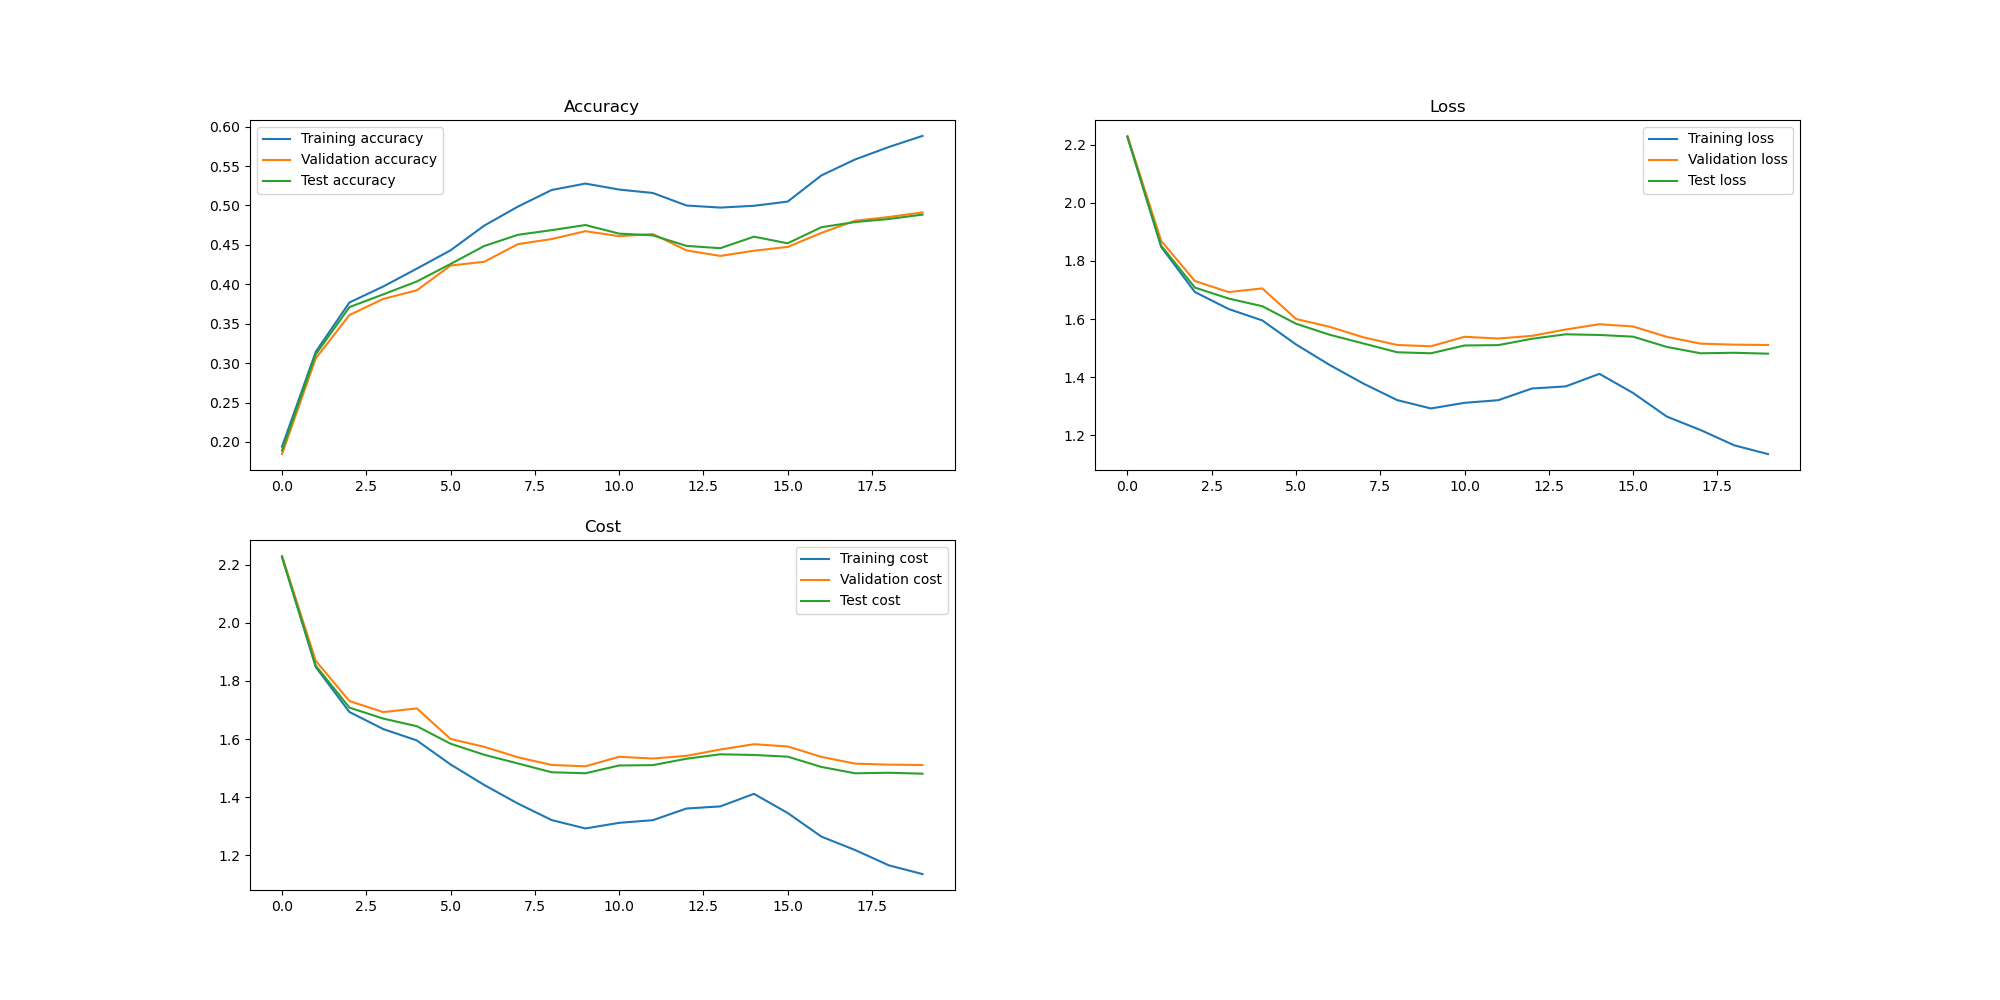
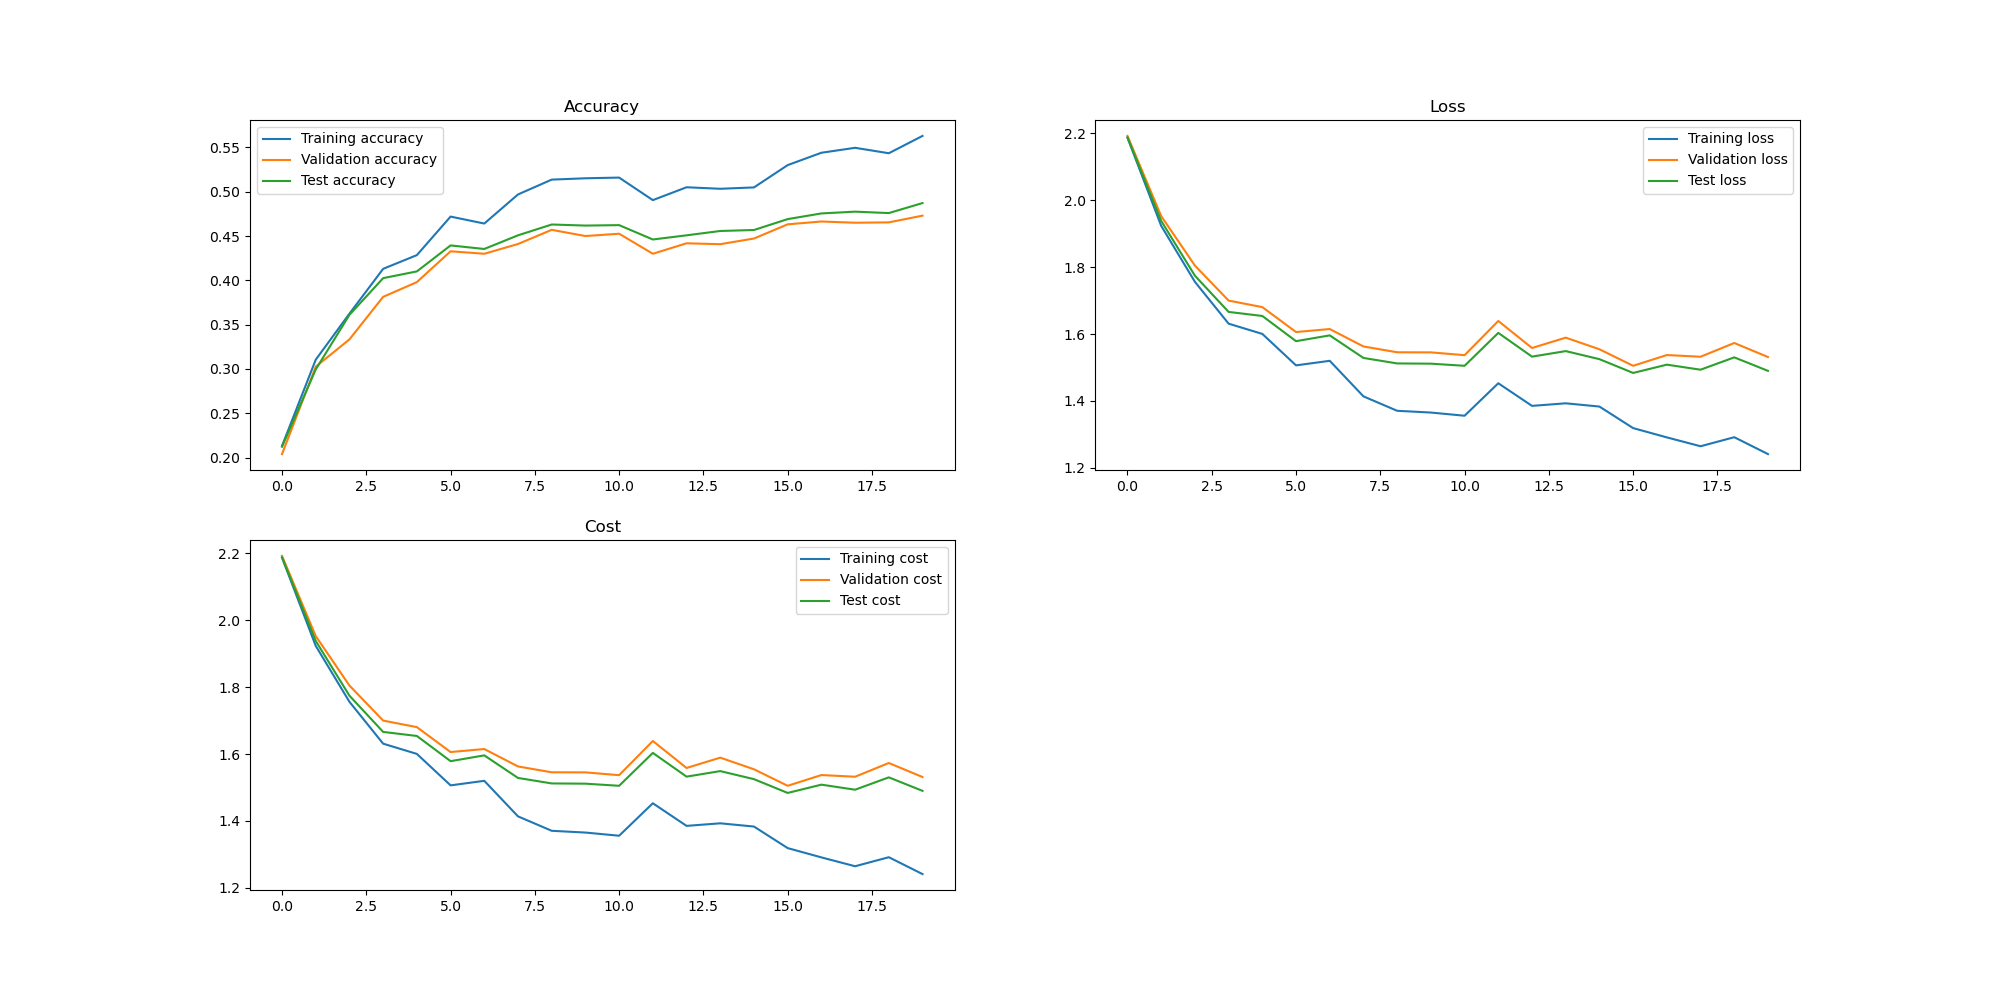
Compiling results

diff --git a/Labs/Lab 3/lab3.py b/Labs/Lab 3/lab3.py
@@ -320,7 +320,7 @@ def update_weights_bias(weights, bias, gamma, beta, grad_weights, grad_bias, lea
     return weights, bias, gamma, beta
   return weights, bias, None, None
 
-def sgd_minibatch(data_train, data_val, data_test, weights, bias, labels_train, labels_val, labels_test, learning_rate, reguliser, batch_size, cycles, do_plot = False, do_batchNorm = False, name_of_file="", gamma=None, beta=None):
+def sgd_minibatch(data_train, data_val, data_test, weights, bias, labels_train, labels_val, labels_test, learning_rate, reguliser, batch_size, cycles, do_plot = False, do_batchNorm = False, name_of_file="", gamma=None, beta=None, alpha=0.9):
   eta_min = 1e-5
   eta_max = 1e-1
   step_size = (data_train.shape[1] / batch_size)*5
@@ -343,6 +343,7 @@ def sgd_minibatch(data_train, data_val, data_test, weights, bias, labels_train, 
   validation_cost = list()
   test_cost = list()
   step_list = list()
+
   print("Epochs: ", epochs)
   print("Updates per epoch: ", updates_per_epoch)
   for epoch in tqdm(range(epochs)):
@@ -365,11 +366,21 @@ def sgd_minibatch(data_train, data_val, data_test, weights, bias, labels_train, 
       # Update the learning rate
       current_iteration = epoch * updates_per_epoch + batch
       learning_rate = cyclical_update(current_iteration, step_size, eta_min, eta_max)
+
+    # Get weighted averages
+    if do_batchNorm:
+      if batch == 0:  # First minibatch
+        mean_average = mean_list
+        variance_average = variance_list
+      else:
+        mean_average, variance_average = calculate_weighted_average(mean_list,variance_list,alpha)
+      mean_list = mean_average
+      variance_list = variance_average
     
     if do_plot:
-      probs_train = forward_pass(data_train, weights, bias, do_batchNorm=do_batchNorm, gamma=gamma, beta=beta)[0][-1]
-      probs_validation = forward_pass(data_val,weights, bias, do_batchNorm=do_batchNorm, gamma=gamma, beta=beta)[0][-1]
-      probs_test = forward_pass(data_test,weights, bias, do_batchNorm=do_batchNorm, gamma=gamma, beta=beta)[0][-1]
+      probs_train = forward_pass(data_train, weights, bias, do_batchNorm=do_batchNorm, gamma=gamma, beta=beta, mean=mean_list, var=variance_list)[0][-1]
+      probs_validation = forward_pass(data_val,weights, bias, do_batchNorm=do_batchNorm, gamma=gamma, beta=beta,mean=mean_list, var=variance_list)[0][-1]
+      probs_test = forward_pass(data_test,weights, bias, do_batchNorm=do_batchNorm, gamma=gamma, beta=beta, mean=mean_list, var=variance_list)[0][-1]
 
       train_loss.append(get_loss(data_train, labels_train,probs_train))
       vaidation_loss.append(get_loss(data_val, labels_val,probs_validation))
@@ -393,6 +404,17 @@ def sgd_minibatch(data_train, data_val, data_test, weights, bias, labels_train, 
     do_plotting(train_loss, vaidation_loss, test_loss, train_accuracy, validation_accuracy, test_accuracy, train_cost, validation_cost, test_cost, step_list, name_of_file=name_of_file)
 
   return weights, bias
+
+def calculate_weighted_average(mean_list, var_list, alpha):
+  mean_av = mean_list.copy()  # Start with values from mean_list
+  var_av = var_list.copy()    # Start with values from var_list
+
+  for i in range(len(mean_list)):
+    new_mean = alpha * mean_av[i] + (1 - alpha) * mean_list[i]
+    new_var = alpha * var_av[i] + (1 - alpha) * var_list[i]
+    mean_av[i] = new_mean  # Update mean_av in place
+    var_av[i] = new_var    # Update var_av in place
+  return mean_av, var_av
 
 def do_plotting(train_loss, vaidation_loss, test_loss, train_accuracy, validation_accuracy, test_accuracy, train_cost, validation_cost, test_cost, step_list,name_of_file=""):
   # Plotting
@@ -423,7 +445,6 @@ def compute_gradients_slow(data, labels, weights, bias, gamma, beta, reguliser, 
   grad_bias = []
   grad_gamma = []
   grad_beta = []
-  
   for j in range(len(bias)):
       grad_bias_layer = np.zeros(bias[j].shape)
       for i in tqdm(range(grad_bias_layer.shape[0])):
@@ -510,6 +531,28 @@ def compareGradients(data, labels, weights, bias, gamma, beta, reguliser, do_bat
     print("No batch normalisation")
   print("Done!")
 
+def lamba_search(data_train, data_val, data_test, weights, bias, labels_train, labels_val, labels_test, do_batchNorm):
+  config = {
+      'data_train': data_train,
+      'data_val': data_val,
+      'data_test': data_test,
+      'weights': weights,
+      'bias': bias,
+      'labels_train': labels_train,
+      'labels_val': labels_val,
+      'labels_test': labels_test,
+      'learning_rate': 0.0001,
+      'reguliser': 0.005,
+      'batch_size': 100,
+      'cycles': 2,
+      'do_plot': True,
+      'do_batchNorm': do_batchNorm,
+      'name_of_file': "Lab[50,50,10], he=True, Sigma=None, do_batchNorm=False",
+      'gamma': None,
+      'beta': None,
+      'alpha': 0.9
+  }
+  
 
 
 def main():
@@ -527,8 +570,18 @@ def main():
   else:
     do_batchNorm = False
   
+  Sigma = None
+  print("Do you want to have sigma? (y/n)")
+  answer = input()
+  if answer == "y":
+    print("What sigma do you want?")
+    Sigma = float(input())
+  else:
+    Sigma = None
+
+  
   # Initialising the network
-  weights, bias, gamma, beta = init_network(data_train, [50, 30, 20,20, 10, 10, 10, 10], he =False, Sigma =None, do_batchNorm=do_batchNorm)
+  weights, bias, gamma, beta = init_network(data_train, [50, 30, 20, 20, 10, 10, 10, 10], he =True, Sigma =Sigma, do_batchNorm=do_batchNorm)
 
 
   # Comparing gradients
@@ -536,6 +589,12 @@ def main():
   answer = input()
   if answer == "y":
     compareGradients(data_train[:, 0:100], labels_train[:, 0:100], weights, bias, gamma, beta, 0, do_batchNorm, h=1e-5)
+  
+  print("Do you want to do a lamba search? (y/n)")
+  answer = input()
+  if answer == "y":
+    lamba_search(data_train, data_val, data_test, weights, bias, labels_train, labels_val, labels_test, do_batchNorm)
+  
 
   print("Do you want to train the network? (y/n)")
   answer = input()
@@ -551,16 +610,18 @@ def main():
       'labels_train': labels_train,
       'labels_val': labels_val,
       'labels_test': labels_test,
-      'learning_rate': 0.01,
-      'reguliser': 0.0,
+      'learning_rate': 0.0001,
+      'reguliser': 0.005,
       'batch_size': 100,
       'cycles': 2,
       'do_plot': True,
       'do_batchNorm': do_batchNorm,
-      'name_of_file': "50-30-20-20-10-10-10-10_No_BatchNorm_heFALSE_reg-0.0",
+      'name_of_file': "Lab[50, 30, 20, 20, 10, 10, 10, 10], he=True, Sigma=None, do_batchNorm=True",
       'gamma': gamma,
-      'beta': beta
+      'beta': beta,
+      'alpha': 0.9
   }
+  
     sgd_minibatch(**config)
 
 if __name__ == "__main__":
